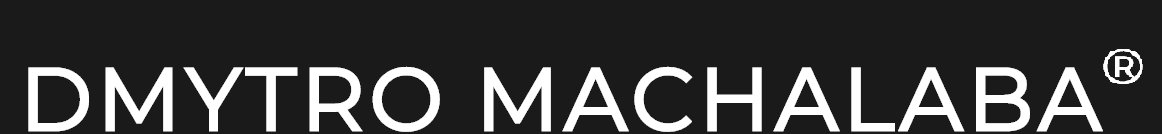
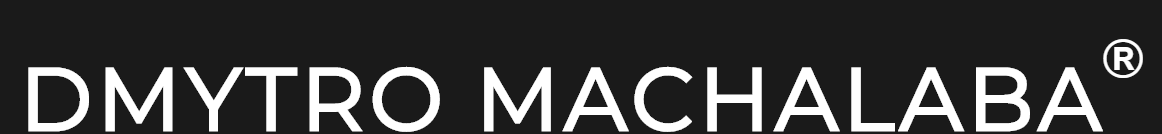
sertificatsv

Changed region(s): [[0.9294, 0.2985, 0.9914, 0.6269]]

diff --git a/index.html b/index.html
@@ -17,7 +17,7 @@
     <header>
         <nav class="navbar navbar-expand-lg navbar-dark bg-primary">
             <a id="logo" class="navbar-brand" href="#">
-            <img style="height: auto; width: 350px; margin-top: -30px;" src="img/DM.png" alt="dm"></a>
+            <img style="height: auto; width: 300px; margin-top: -30px;" src="img/DM.png" alt="dm"></a>
             
             <button class="navbar-toggler" type="button" data-toggle="collapse" data-target="#navbarColor01"
                 aria-controls="navbarColor01" aria-expanded="false" aria-label="Toggle navigation">
@@ -80,94 +80,55 @@
                 <div id="carouselExampleControls" class="carousel slide" data-ride="carousel">
                     <div class="carousel-inner">
                         <div class="carousel-item active">
-                            <img class="d-block" src="img/certificates/1.jpg" alt="1 slide">
+                            <img class="d-block" src="img/certificates/vertical/1.jpg" alt="1 slide">
                         </div>
                         <div class="carousel-item">
-                            <img class="d-block" src="img/certificates/2.jpg" alt="2 slide">
+                            <img class="d-block" src="img/certificates/vertical/2.jpg" alt="2 slide">
                         </div>
                         <div class="carousel-item">
-                            <img class="d-block" src="img/certificates/3.jpg" alt="3 slide">
+                            <img class="d-block" src="img/certificates/vertical/3.jpg" alt="3 slide">
                         </div>
                         <div class="carousel-item">
-                            <img class="d-block" src="img/certificates/4.jpg" alt="4 slide">
+                            <img class="d-block" src="img/certificates/vertical/4.jpg" alt="4 slide">
                         </div>
                         <div class="carousel-item">
-                            <img class="d-block" src="img/certificates/5.jpg" alt="5 slide">
+                            <img class="d-block" src="img/certificates/vertical/5.jpg" alt="5 slide">
                         </div>
                         <div class="carousel-item">
-                            <img class="d-block" src="img/certificates/6.jpg" alt="6 slide">
+                            <img class="d-block" src="img/certificates/vertical/6.jpg" alt="6 slide">
                         </div>
                         <div class="carousel-item">
-                            <img class="d-block" src="img/certificates/7.jpg" alt="7 slide">
+                            <img class="d-block" src="img/certificates/vertical/7.jpg" alt="7 slide">
                         </div>
                         <div class="carousel-item">
-                            <img class="d-block" src="img/certificates/8.jpg" alt="8 slide">
+                            <img class="d-block" src="img/certificates/vertical/8.jpg" alt="8 slide">
                         </div>
                         <div class="carousel-item">
-                            <img class="d-block" src="img/certificates/9.jpg" alt="9 slide">
+                            <img class="d-block" src="img/certificates/vertical/9.jpg" alt="9 slide">
                         </div>
                         <div class="carousel-item">
-                            <img class="d-block" src="img/certificates/10.jpg" alt="10 slide">
+                            <img class="d-block" src="img/certificates/vertical/10.jpg" alt="10 slide">
                         </div>
                         <div class="carousel-item">
-                            <img class="d-block" src="img/certificates/11.jpg" alt="11 slide">
+                            <img class="d-block" src="img/certificates/vertical/11.jpg" alt="11 slide">
                         </div>
                         <div class="carousel-item">
-                            <img class="d-block" src="img/certificates/12.jpg" alt="12 slide">
+                            <img class="d-block" src="img/certificates/vertical/12.jpg" alt="12 slide">
                         </div>
                         <div class="carousel-item">
-                            <img class="d-block" src="img/certificates/13.jpg" alt="13 slide">
+                            <img class="d-block" src="img/certificates/vertical/13.jpg" alt="13 slide">
                         </div>
                         <div class="carousel-item">
-                            <img class="d-block" src="img/certificates/14.jpg" alt="14 slide">
+                            <img class="d-block" src="img/certificates/vertical/14.jpg" alt="14 slide">
                         </div>
                         <div class="carousel-item">
-                            <img class="d-block" src="img/certificates/15.jpg" alt="15 slide">
+                            <img class="d-block" src="img/certificates/vertical/15.jpg" alt="15 slide">
                         </div>
                         <div class="carousel-item">
-                            <img class="d-block" src="img/certificates/16.jpg" alt="16 slide">
+                            <img class="d-block" src="img/certificates/vertical/16.jpg" alt="16 slide">
                         </div>
                         <div class="carousel-item">
-                            <img class="d-block" src="img/certificates/17.jpg" alt="17 slide">
-                        </div>
-                        <div class="carousel-item">
-                            <img class="d-block" src="img/certificates/18.jpg" alt="18 slide">
-                        </div>
-                        <div class="carousel-item">
-                            <img class="d-block" src="img/certificates/19.jpg" alt="19 slide">
-                        </div>
-                        <div class="carousel-item">
-                            <img class="d-block" src="img/certificates/20.jpg" alt="20 slide">
-                        </div>
-                        <div class="carousel-item">
-                            <img class="d-block" src="img/certificates/21.jpg" alt="21 slide">
-                        </div>
-                        <div class="carousel-item">
-                            <img class="d-block" src="img/certificates/22.jpg" alt="22 slide">
-                        </div>
-                        <div class="carousel-item">
-                            <img class="d-block" src="img/certificates/23.jpg" alt="23 slide">
-                        </div>
-                        <div class="carousel-item">
-                            <img class="d-block" src="img/certificates/24.jpg" alt="24 slide">
-                        </div>
-                        <div class="carousel-item">
-                            <img class="d-block" src="img/certificates/25.jpg" alt="25 slide">
-                        </div>
-                        <div class="carousel-item">
-                            <img class="d-block" src="img/certificates/26.jpg" alt="26 slide">
-                        </div>
-                        <div class="carousel-item">
-                            <img class="d-block" src="img/certificates/27.jpg" alt="27 slide">
-                        </div>
-                        <div class="carousel-item">
-                            <img class="d-block" src="img/certificates/28.jpg" alt="28 slide">
-                        </div>
-                        <div class="carousel-item">
-                            <img class="d-block" src="img/certificates/29.jpg" alt="29 slide">
-                        </div>
-                        <div class="carousel-item">
-                            <img class="d-block" src="img/certificates/30.jpg" alt="30 slide">
+                            <img class="d-block" src="img/certificates/vertical/17.jpg" alt="17 slide">
                         </div>
                     </div>
                     <a class="carousel-control-prev" href="#carouselExampleControls" role="button" data-slide="prev">

diff --git a/css/index.css b/css/index.css
@@ -18,7 +18,7 @@
     font-family: 'Montserrat', sans-serif;
 }
 #dmytrom{
-    margin: 10px;
+    
 }
 .d-block{
     min-width: 400px;
